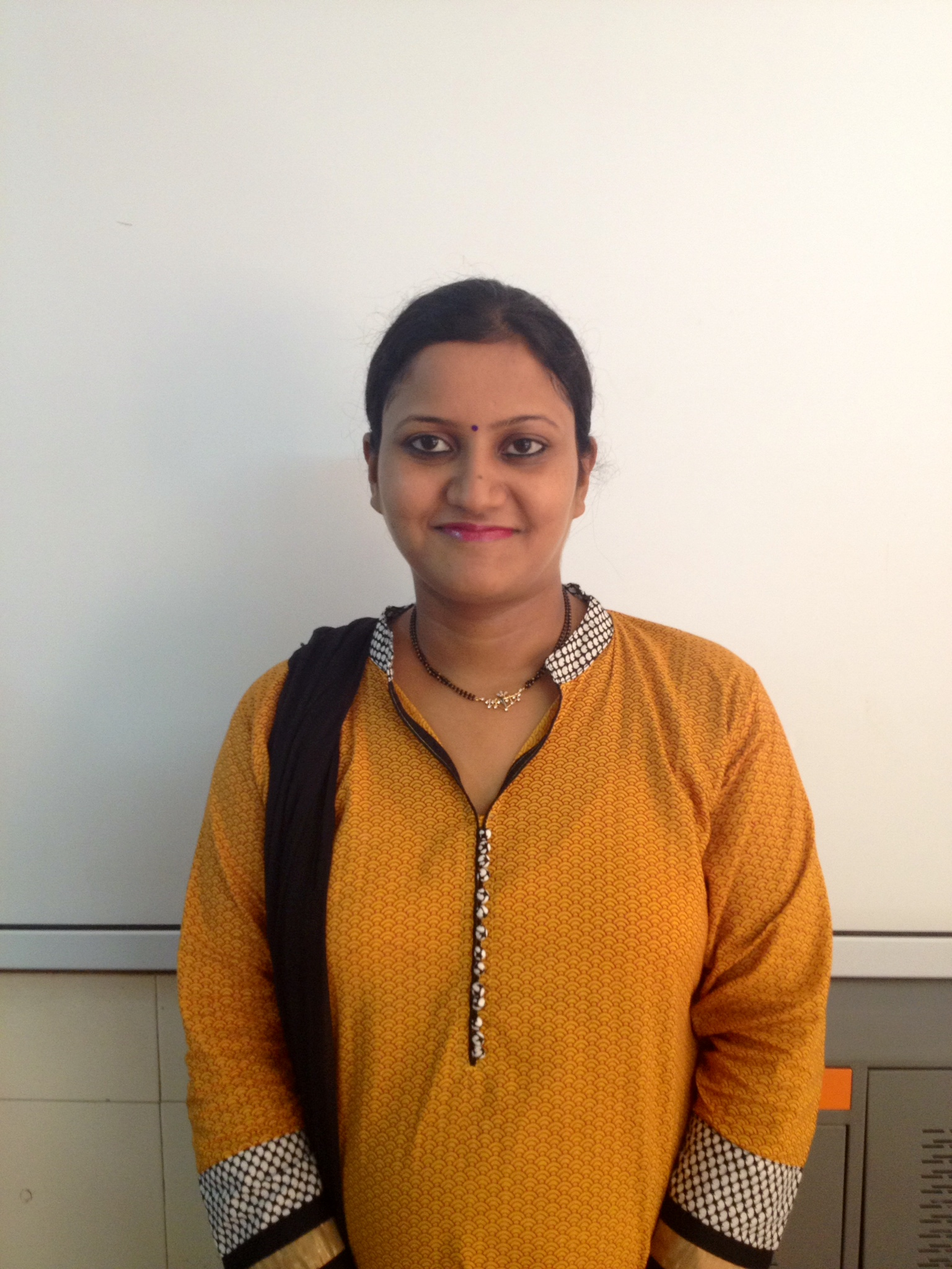
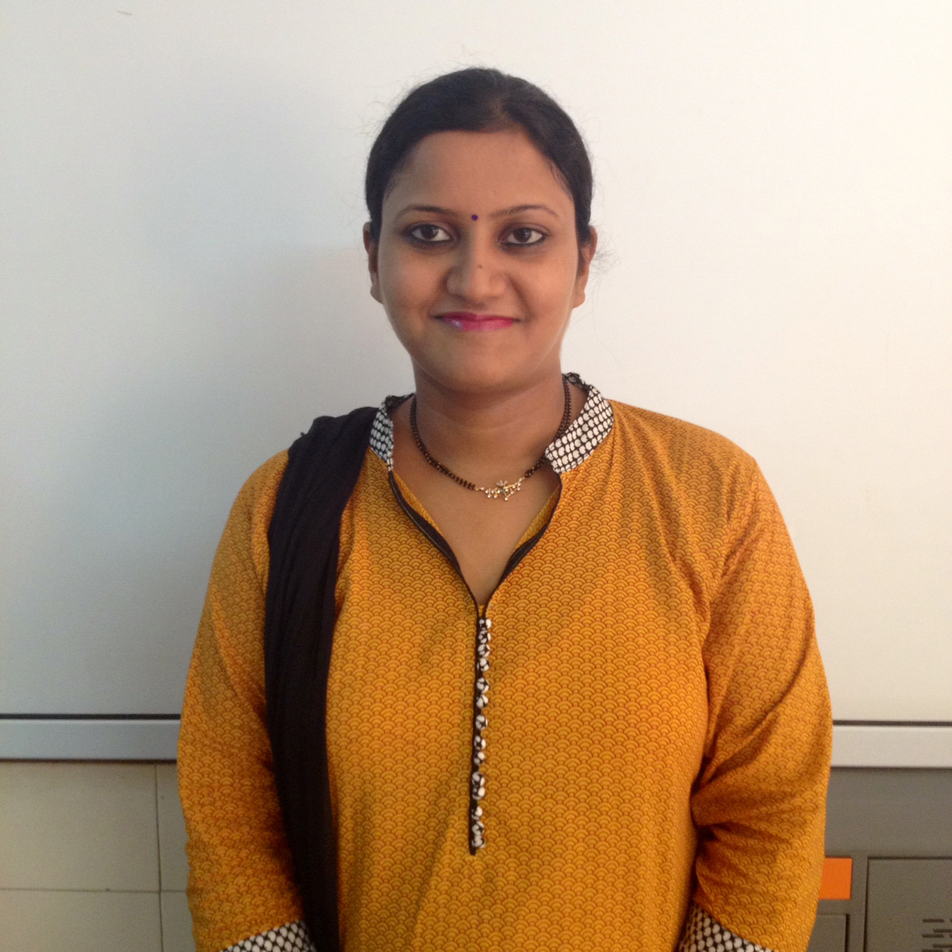
Fixed pictures

Changed region(s): [[0.0, 0.0625, 1.0, 1.0]]

diff --git a/details.html b/details.html
@@ -198,7 +198,7 @@
 
 		<div class="row sec">
 			<div class="column one-third wow zoomInLeft">
-				<img class="thumbnail" src="images/aarti.jpg"><br>
+				<img class="thumbnail" src="images/aarti.JPG"><br>
 				<a class="names" href="http://fb.me/arti.mohan.374" target="_blank">Ms. Arti Mohan</a><br>
 
 				<p class="post">Teacher Coordinator</p>
